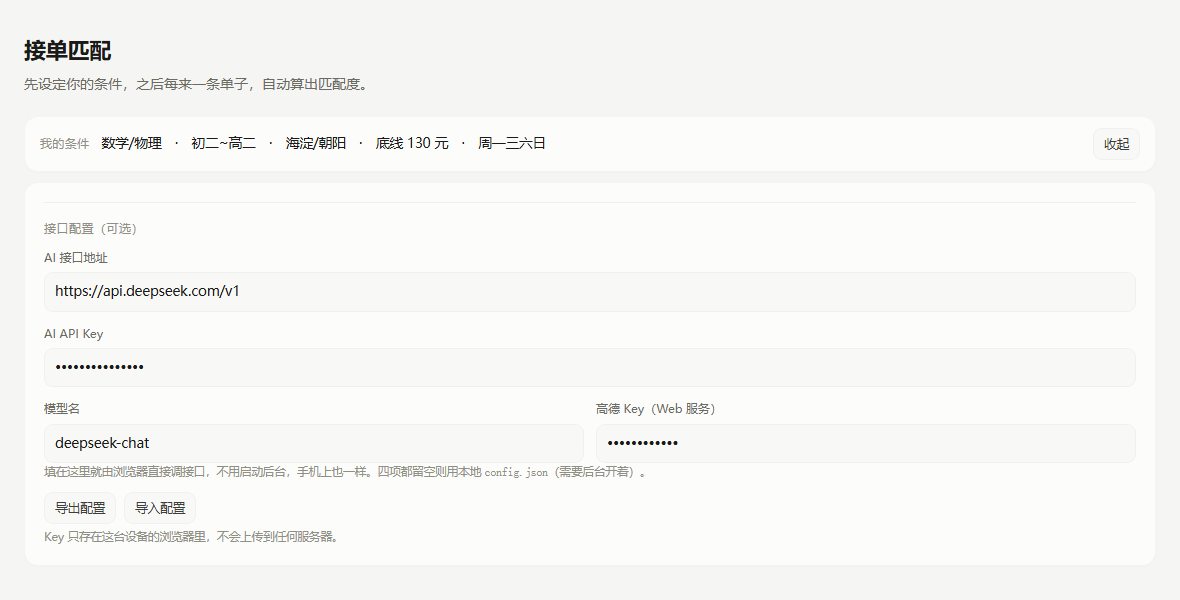
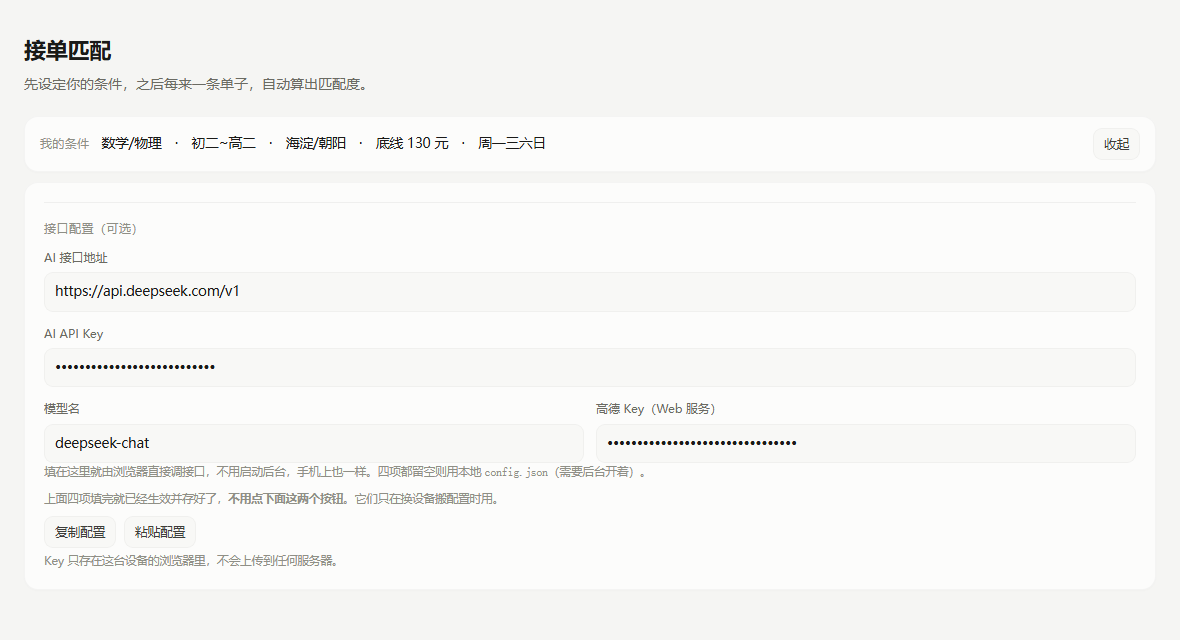
fix: 接口配置的按钮改名，讲清楚不用点也生效
「导出配置 / 导入配置」容易让人以为填完 Key 还得点一下才保存，实际
填完就已经写进 localStorage 并生效了。

- 按钮改为「复制配置」「粘贴配置」，和实际行为对得上
- 按钮上方补一句：上面四项填完就生效，这两个只在换设备搬配置时用
- 粘贴提示改为「把之前『复制配置』得到的那段内容粘在这里」
- README / 使用说明 / 截图同步

diff --git a/index.html b/index.html
@@ -485,9 +485,10 @@ textarea::placeholder{color:var(--faint);opacity:.75}
         </div>
       </div>
       <div class="fld"><div class="h" style="margin-top:0">填在这里就由浏览器直接调接口，不用启动后台，手机上也一样。四项都留空则用本地 <code>config.json</code>（需要后台开着）。</div></div>
-      <div style="display:flex;gap:8px;margin-top:10px;flex-wrap:wrap">
-        <button class="btn-ghost" id="apiExport" type="button">导出配置</button>
-        <button class="btn-ghost" id="apiImport" type="button">导入配置</button>
+      <div class="fld" style="margin-top:2px"><div class="h" style="margin-top:8px">上面四项填完就已经生效并存好了，<strong>不用点下面这两个按钮</strong>。它们只在换设备搬配置时用。</div></div>
+      <div style="display:flex;gap:8px;margin-top:8px;flex-wrap:wrap">
+        <button class="btn-ghost" id="apiExport" type="button">复制配置</button>
+        <button class="btn-ghost" id="apiImport" type="button">粘贴配置</button>
       </div>
       <div class="fld"><div class="h" id="apiHint">Key 只存在这台设备的浏览器里，不会上传到任何服务器。</div></div>
     </div>
@@ -1151,17 +1152,17 @@ textarea::placeholder{color:var(--faint);opacity:.75}
   function exportApi(){
     readApiForm();
     if(!(api.aiBase || api.aiKey || api.aiModel || api.amapKey)){
-      document.getElementById('apiHint').textContent = '还没填任何配置，没有可导出的内容。';
+      document.getElementById('apiHint').textContent = '还没填任何配置，没有可复制的内容。';
       return;
     }
     copyText(JSON.stringify({
       aiBase: api.aiBase, aiKey: api.aiKey, aiModel: api.aiModel, amapKey: api.amapKey
     }), document.getElementById('apiExport'));
-    document.getElementById('apiHint').textContent = '配置已复制。到另一台设备的这里点「导入配置」粘进去就行。';
+    document.getElementById('apiHint').textContent = '配置已复制到剪贴板。换设备时在那台点「粘贴配置」，把这段粘进去就行。';
   }
 
   function importApi(){
-    var txt = window.prompt('把之前导出的配置粘进来：');
+    var txt = window.prompt('把之前「复制配置」得到的那段内容粘在这里：');
     if(!txt) return;
     var d;
     try { d = JSON.parse(txt); } catch(e){
@@ -1178,7 +1179,7 @@ textarea::placeholder{color:var(--faint);opacity:.75}
     saveApi();
     fillForm();
     onApiChanged();
-    document.getElementById('apiHint').textContent = '配置已导入并生效。';
+    document.getElementById('apiHint').textContent = '配置已粘贴，AI 和高德都已生效。';
   }
 
   function readForm(){

diff --git a/使用说明.html b/使用说明.html
@@ -250,7 +250,7 @@ tr:last-child td{border-bottom:0}
   <li>页面「设条件 → 接口配置」里填三项：地址 <code>https://api.deepseek.com/v1</code>、你的 Key、模型名 <code>deepseek-chat</code>。</li>
   <li>收起面板，随便粘一条单子试，能补全就说明通了。</li>
 </ol>
-<p class="sub">Key 只存在这台设备的浏览器里，不上传。换手机或换电脑时，点「导出配置」复制那段文字，到新设备点「导入配置」粘进去，不用重填。</p>
+<p class="sub">填完就生效并存好了，<strong>不用点任何按钮</strong>。Key 只存在这台设备的浏览器里，不上传。换手机或换电脑时，点「复制配置」把那段文字复制走，到新设备点「粘贴配置」贴进去，不用重填。</p>
 <p class="sub">不想在页面上填、或者只想让电脑后台用，也可以照老办法：把 <code>config.example.json</code> 复制成 <code>config.json</code>，填好 <code>api_key</code>，重启监听程序。两种都配了以页面里填的为准。</p>
 
 <h4>常见厂商怎么填</h4>

diff --git a/README.md b/README.md
@@ -187,9 +187,9 @@ https://xiuqixiang515.github.io/Tutor-Order-Advisor/
 | AI API Key | 你申请的 `sk-` 开头的 Key |
 | 模型名 | `deepseek-chat` |
 
-填完收起面板就生效。Key 存在浏览器的 localStorage 里，**不会上传到任何服务器**，也不需要启动后台——手机上打开同一个页面填一遍，AI 照样能用。
+填完收起面板就生效，**不用再点别的按钮**。Key 存在浏览器的 localStorage 里，不会上传到任何服务器，也不需要启动后台——手机上打开同一个页面填一遍，AI 照样能用。
 
-换设备时不用重填：点「导出配置」复制那段文本，到新设备点「导入配置」粘进去。
+换设备时不用重填：点「**复制配置**」，到新设备点「**粘贴配置**」把那段贴进去。
 
 ![接口配置](docs/screenshots/api-config.png)
 
@@ -268,7 +268,7 @@ https://xiuqixiang515.github.io/Tutor-Order-Advisor/
 | 配了 AI | 仅在关键字段缺失时，把**这一条单子的原文**发给厂商 API |
 | 配了高德 | 把**你的出发点和单子里的地点**发给高德，用于地理编码和路径规划 |
 | 你的条件画像 | 存在浏览器 `localStorage`，不上传任何地方 |
-| 页面里填的 Key | 同样只在 `localStorage`，不出这台设备。换设备要手动导出导入 |
+| 页面里填的 Key | 同样只在 `localStorage`，不出这台设备。换设备要手动复制粘贴 |
 | `config.json` | 只在本地读，已在 `.gitignore` 里，不会被提交 |
 
 单子里可能带家长手机号、小区名。开这两个之前想清楚，或者复制时先把敏感信息删掉。

diff --git a/CHANGELOG.md b/CHANGELOG.md
@@ -2,6 +2,19 @@
 
 格式参考 [Keep a Changelog](https://keepachangelog.com/zh-CN/1.1.0/)，版本号遵循 [语义化版本](https://semver.org/lang/zh-CN/)。
 
+## [1.3.1] - 2026-10-22
+
+按钮文案改直白，避免「以为要点了才生效」。
+
+### 改动
+
+- 「导出配置」「导入配置」改成「**复制配置**」「**粘贴配置**」。原来的叫法容易让人以为填完 Key 还得点一下，实际填完就已经保存并生效了
+- 按钮上方加了一句说明：上面四项填完就生效，这两个按钮只在换设备搬配置时用
+- 粘贴时的提示语改为「把之前『复制配置』得到的那段内容粘在这里」，和按钮叫法对得上
+- 复制成功的提示改为「配置已复制到剪贴板。换设备时在那台点『粘贴配置』，把这段粘进去就行」
+
+---
+
 ## [1.3.0] - 2026-10-22
 
 接口配置从「改文件」变成「在页面上填」。
